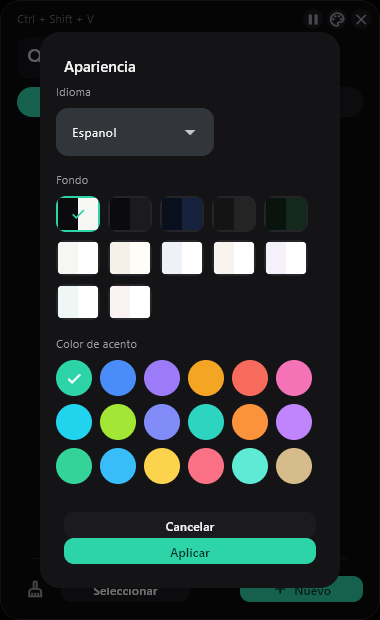
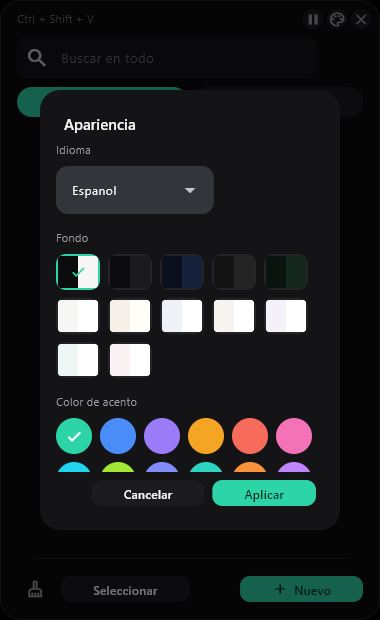
Arregla el pie de los dialogos, que tapaba el contenido
Dos problemas superpuestos en el dialogo de Apariencia:

1. Flutter mete los actions de un AlertDialog en un OverflowBar, que
   los apila en vertical en cuanto sospecha que no caben en horizontal.
   El pie ocupaba el doble de alto. Ahora los botones van dentro de un
   Row explicito como una sola accion, y no tiene ocasion de apilarlos.

2. La altura del cuerpo restaba 200 px al alto de la ventana, pero el
   dialogo se queda con unos 290 entre margenes, titulo y pie. Sale
   ahora de alto_util(), que lo calcula y comparten Apariencia y
   Editar carpeta.

Verificado sobre el render y no solo leyendo el codigo: 7 dialogos por
4 idiomas por 3 tamanos de ventana, 84 combinaciones sin fallos.

Changed region(s): [[0.0868, 0.0919, 0.8974, 0.95], [0.6947, 0.3677, 0.8105, 0.5516]]

diff --git a/pastepad/ventanas.py b/pastepad/ventanas.py
@@ -30,10 +30,26 @@ def _marco(page, titulo, cuerpo, acciones, ancho=460):
                        ft.FontWeight.W_500),
         content=ft.Container(content=cuerpo,
                              width=max(240, min(ancho, disponible))),
-        actions=acciones,
+        # Los botones van dentro de una fila propia y no sueltos en
+        # actions: Flutter los mete en un OverflowBar que los apila en
+        # vertical en cuanto sospecha que no caben, y el pie pasaba a
+        # ocupar el doble de alto y tapaba el final del contenido.
+        actions=[ft.Row(acciones, spacing=st.E2, tight=True,
+                        alignment=ft.MainAxisAlignment.END)],
         actions_alignment=ft.MainAxisAlignment.END,
         content_padding=ft.Padding.symmetric(horizontal=st.E4,
                                              vertical=st.E2))
+
+
+def alto_util(page, tope=440):
+    """Cuanto puede medir el cuerpo de un dialogo sin que se salga.
+
+    Del alto de la ventana hay que descontar lo que el propio dialogo se
+    queda: los margenes que Flutter le reserva arriba y abajo, la banda
+    del titulo y la de los botones. Son unos 290 px; con menos, el pie
+    acababa encima del contenido.
+    """
+    return max(200, min(tope, (page.window.height or 560) - 290))
 
 
 def abrir(page, dialogo):
@@ -376,7 +392,7 @@ def apariencia(page, acento, atajo, al_aplicar, tema="auto",
         seccion(idi.t("Color de acento"), bolas),
         seccion(idi.t("Atajo para abrir"), combinaciones),
     ], spacing=st.E4, tight=True, scroll=ft.ScrollMode.AUTO,
-        height=min(420, max(260, (page.window.height or 560) - 200)))
+        height=alto_util(page))
 
     d = _marco(page, idi.t("Apariencia"), cuerpo,
                [st.boton(idi.t("Cancelar"), lambda e: cerrar(page)),
@@ -398,7 +414,8 @@ def editar_carpeta(page, carpeta, elementos, al_aplicar):
     condenados = set()
     filas_ui = ft.Column(spacing=st.E1, tight=True,
                          scroll=ft.ScrollMode.AUTO,
-                         height=min(240, 44 * max(1, len(elementos))))
+                         height=min(alto_util(page, 240),
+                                    44 * max(1, len(elementos))))
 
     def pintar():
         filas_ui.controls = []
